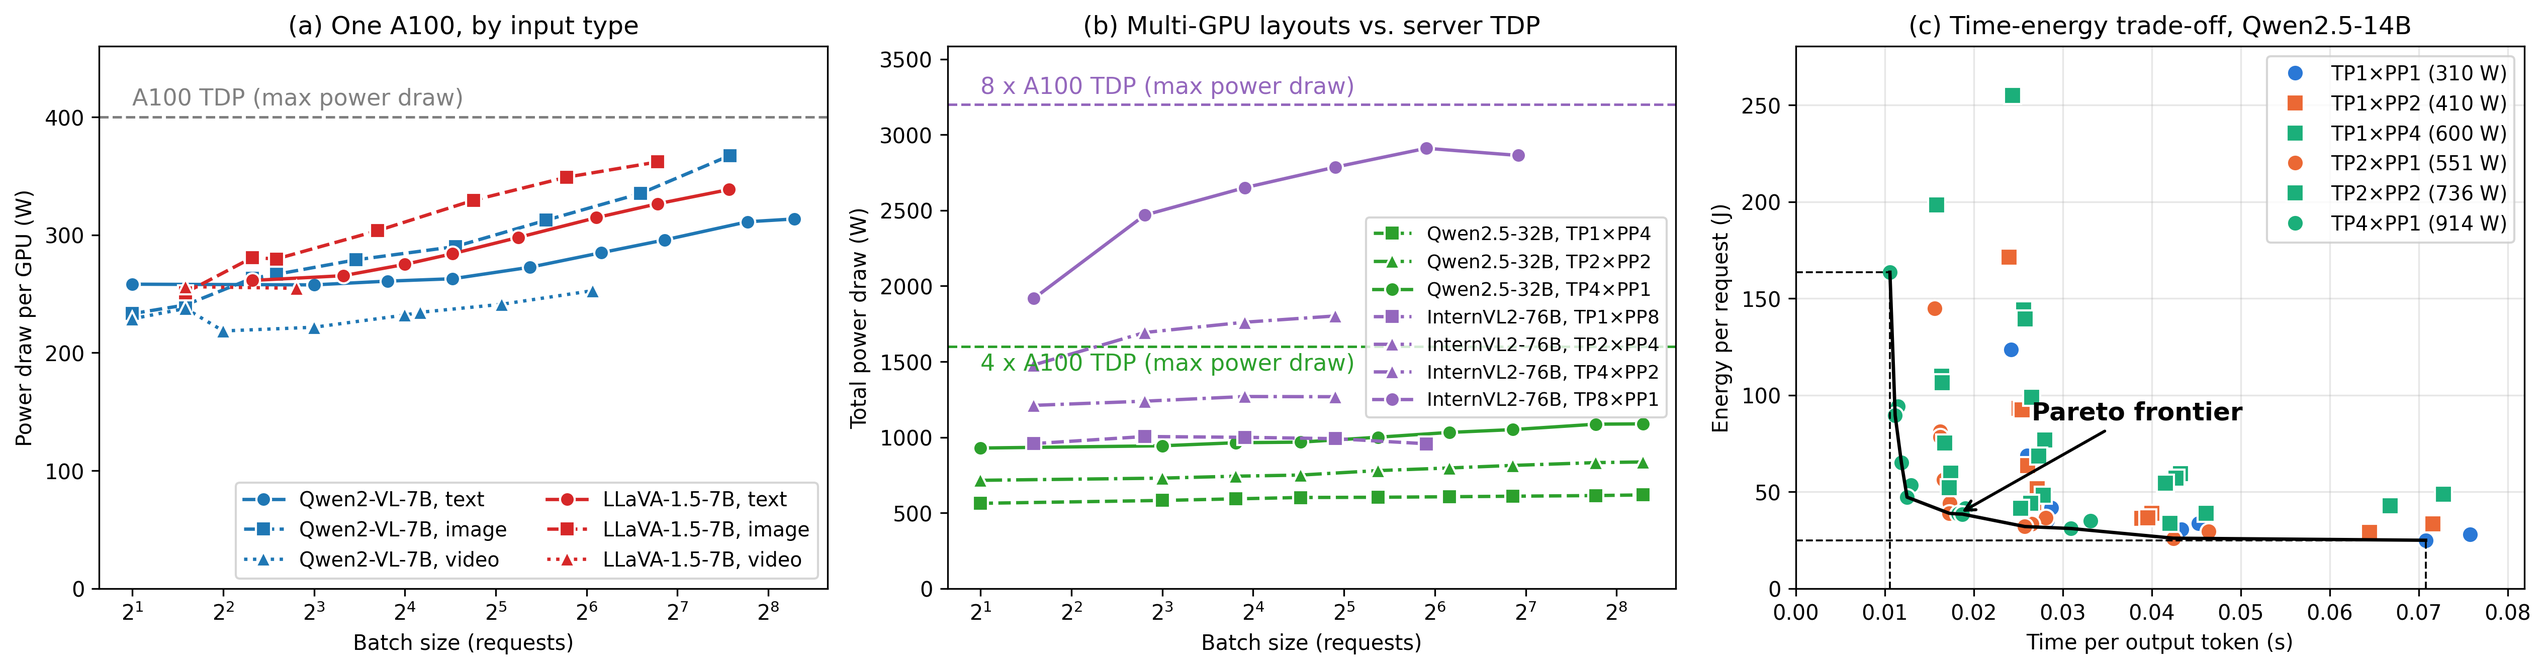
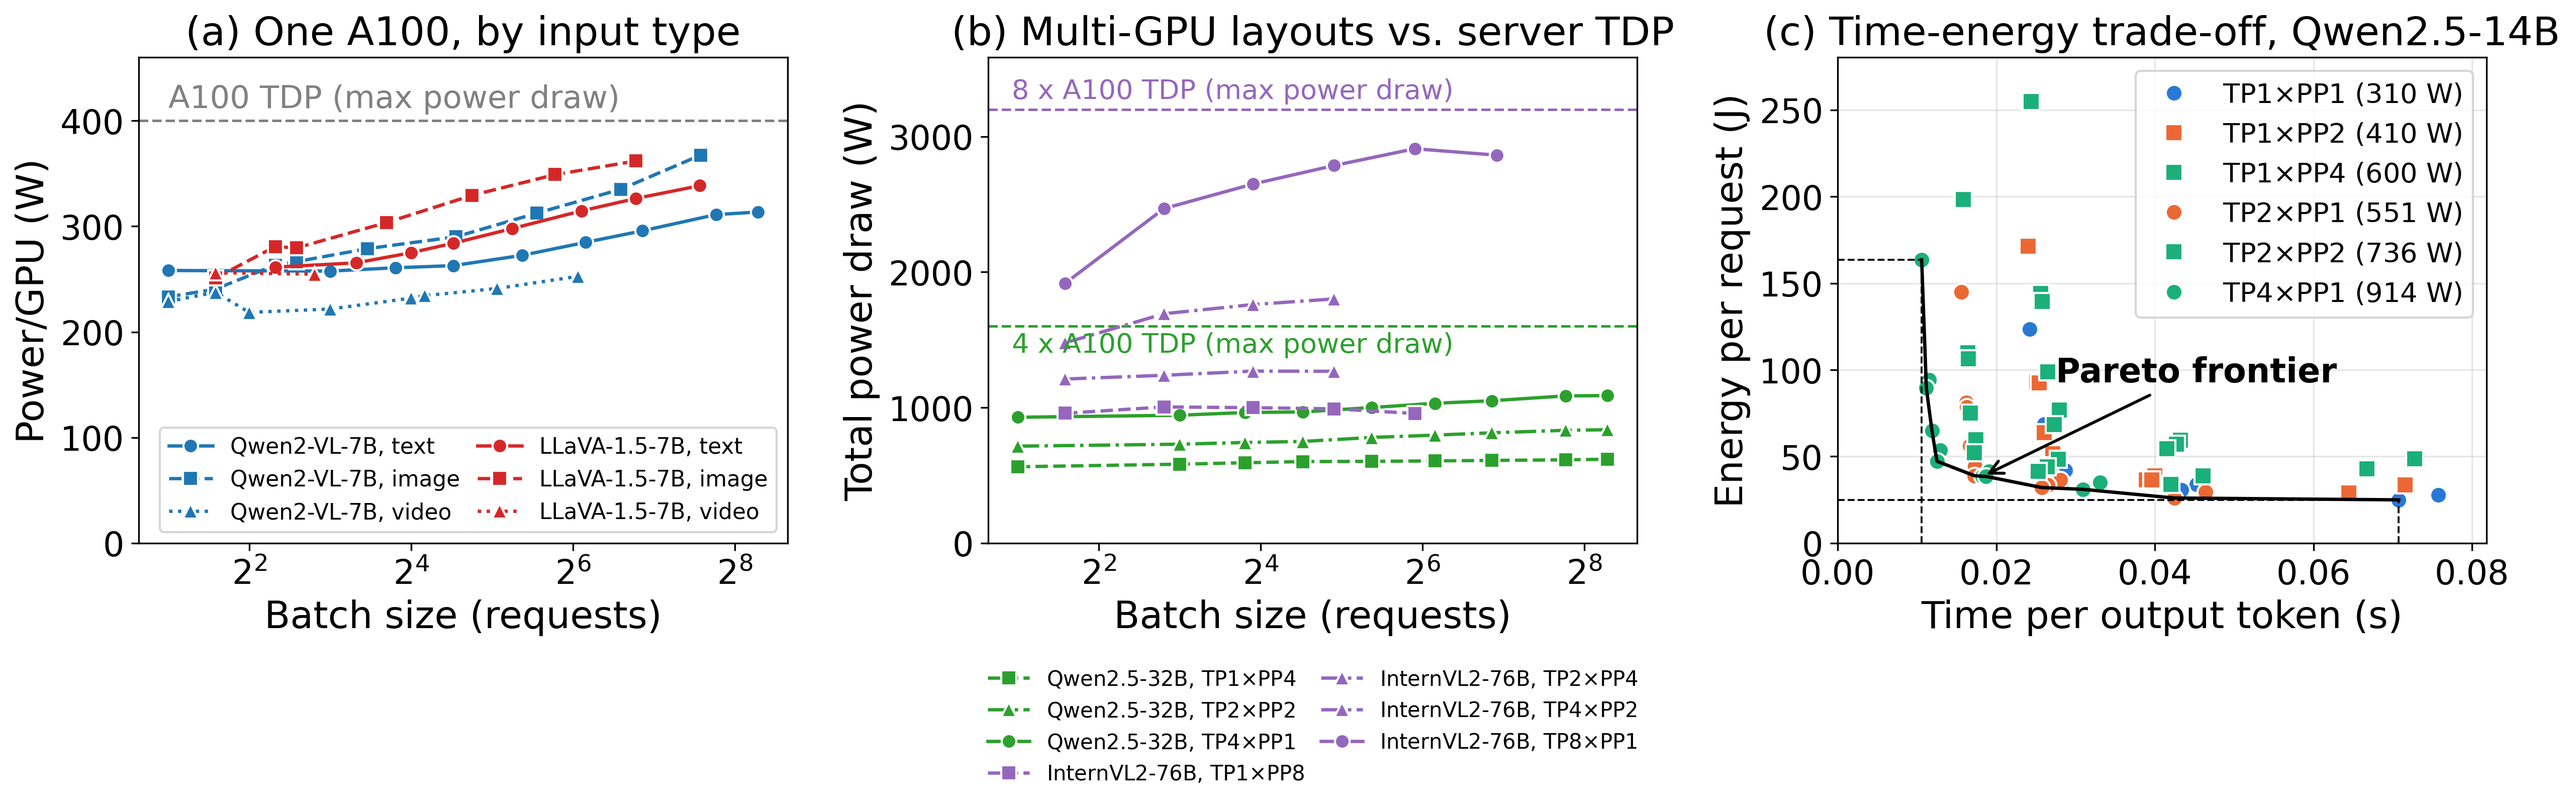
Ablation script; fixed figure labels
Claude-Session: https://claude.ai/code/session_01GNwmsi9rMoRu5eXQtDeSCb

diff --git a/nvidia/test/ablation.py b/nvidia/test/ablation.py
@@ -1,0 +1,237 @@
+#!/usr/bin/env python3
+"""Term-by-term ablation of the EnergyLens template, and a latency x power physics model.
+
+Every variant is fitted on the same 50 random rows of the training scenarios and scored on
+the held-out scenarios (MAPE, pairwise accuracy, Top-1, regret), over the 29 A100 datasets
+and three split seeds:
+  full                 Eq. (unified-tp-pp)
+  no overhead          delta_1 = delta_2 = 0
+  symmetric exponent   one parallelism exponent per phase (gamma_1 = gamma_2)
+  linear batch         uncapped batch size, beta = 1, epsilon = 0 (energy per request ~ 1/b)
+  latency x power      log-linear latency model x linear power model, divided by the batch
+  SR raw formula       SR's best formula of the dataset (seed 0), all constants re-fitted
+                       (only the five datasets SR was run on)
+
+    python test/ablation.py [--seeds 42 7 123] [--workers 16]
+"""
+import argparse
+import os
+import sys
+from concurrent.futures import ProcessPoolExecutor
+
+os.environ.setdefault("OMP_NUM_THREADS", "1")
+import numpy as np  # noqa: E402
+import pandas as pd  # noqa: E402
+from scipy.optimize import minimize  # noqa: E402
+
+HERE = os.path.dirname(os.path.abspath(__file__))
+NVIDIA = os.path.dirname(HERE)
+sys.path.insert(0, HERE)
+sys.path.insert(0, os.path.join(NVIDIA, "..", "adaptive_sampling"))
+from simulator import PATHS, load_csv, ranking_metrics  # noqa: E402
+from compare_cross_model import holdout_scenarios, effective_batch, fit_unified, unified_predict  # noqa: E402
+
+SR = {  # dataset label in PATHS -> SR result folder
+    "Mistral-7B": "run_text_only_Mistral-7B-Instruct-v0.3",
+    "Nemotron-Nano-9B": "run_text_only_NVIDIA-Nemotron-Nano-9B-v2",
+    "Qwen2-VL-7B": "run_text_only_Qwen2-VL-7B-Instruct",
+    "Qwen2-VL-7B (image)": "run_text_image_Qwen2-VL-7B-Instruct",
+    "LLaVA-1.5-7B": "run_text_only_llava-1.5-7b-hf",
+}
+BOUNDS = [(1e-8, 1e6), (0.01, 3), (-2, 3), (-2, 3), (0, 100),
+          (1e-8, 1e6), (0.01, 3), (-2, 3), (-2, 3), (0, 100),
+          (-1e6, 1e6), (-1e6, 1e6)]
+
+
+def template(p, d, bs):
+    a_p, b_p, g1p, g2p, e_p, a_d, b_d, g1d, g2d, e_d, d1, d2 = p
+    tok, tp, pp = d["decode_tokens"].values.astype(float), d["tp_degree"].values.astype(float), d["pp_degree"].values.astype(float)
+    inp = d["total_input"].values.astype(float)
+    return (a_p * inp / (bs ** b_p + e_p) * tp ** g1p * pp ** g2p
+            + a_d * tok / (bs ** b_d + e_d) * tp ** g1d * pp ** g2d + d1 * tp + d2 * pp)
+
+
+def fit_variant(train, expand, n_free, x0_full, restarts=10, linear_batch=False):
+    """Fit a constrained template: expand(free) -> 12 parameters."""
+    y = train["measured_energy"].values.astype(float)
+    bs = train["batch_size"].values.astype(float) if linear_batch else effective_batch(train)
+
+    def loss(q):
+        return np.mean(np.abs(template(expand(q), train, bs) - y) / y)
+    best, bq = np.inf, None
+    for i in range(restarts):
+        rng = np.random.RandomState(i * 42)
+        x0 = x0_full(rng)
+        r = minimize(loss, x0, method="L-BFGS-B", bounds=free_bounds(n_free, expand.__name__),
+                     options={"maxiter": 5000})
+        if r.fun < best:
+            best, bq = r.fun, r.x
+    p = expand(bq)
+    return lambda d: template(p, d, d["batch_size"].values.astype(float) if linear_batch else effective_batch(d))
+
+
+def free_bounds(n, name):
+    if name == "sym":      # a_p b_p g_p e_p a_d b_d g_d e_d d1 d2
+        return [BOUNDS[i] for i in (0, 1, 2, 4, 5, 6, 7, 9, 10, 11)]
+    if name == "nodelta":  # first ten
+        return BOUNDS[:10]
+    if name == "linb":     # a_p g1p g2p a_d g1d g2d d1 d2
+        return [BOUNDS[i] for i in (0, 2, 3, 5, 7, 8, 10, 11)]
+    raise ValueError(name)
+
+
+def starts(train):
+    y = train["measured_energy"].values.astype(float)
+    med = np.median(y)
+    sp = med * 0.3 / max(np.median(train["total_input"].values), 1)
+    sd = med * 0.7 / max(np.median(train["decode_tokens"].values), 1)
+
+    def full(rng):
+        return [sp * rng.uniform(.1, 3), rng.uniform(.3, 1.5), rng.uniform(-1.2, -.2), rng.uniform(-1, 0), rng.uniform(.01, 2),
+                sd * rng.uniform(.1, 3), rng.uniform(.3, 1.5), rng.uniform(-1.2, -.2), rng.uniform(-1, 0), rng.uniform(.01, 2),
+                rng.uniform(-med * .05, med * .1), rng.uniform(-med * .05, med * .1)]
+    return full
+
+
+def variants(train):
+    full = starts(train)
+    out = {}
+    th = fit_unified(train, restarts=10)
+    out["full"] = lambda d: unified_predict(th, d)
+
+    def nodelta(q):
+        return list(q) + [0.0, 0.0]
+    out["no overhead"] = fit_variant(train, nodelta, 10, lambda r: full(r)[:10])
+
+    def sym(q):
+        a_p, b_p, g_p, e_p, a_d, b_d, g_d, e_d, d1, d2 = q
+        return [a_p, b_p, g_p, g_p, e_p, a_d, b_d, g_d, g_d, e_d, d1, d2]
+    out["symmetric exponent"] = fit_variant(train, sym, 10, lambda r: [full(r)[i] for i in (0, 1, 2, 4, 5, 6, 7, 9, 10, 11)])
+
+    def linb(q):
+        a_p, g1p, g2p, a_d, g1d, g2d, d1, d2 = q
+        return [a_p, 1.0, g1p, g2p, 0.0, a_d, 1.0, g1d, g2d, 0.0, d1, d2]
+    out["linear batch"] = fit_variant(train, linb, 8, lambda r: [full(r)[i] for i in (0, 2, 3, 5, 7, 8, 10, 11)],
+                                      linear_batch=True)
+    out["latency x power"] = physics(train)
+    return out
+
+
+def physics(train):
+    """log L = linear in (log tp, log pp, log b, log T_out, log T_in); P = linear in (n, tp, log b)."""
+    def X(d):
+        tp, pp = d["tp_degree"].values.astype(float), d["pp_degree"].values.astype(float)
+        b = d["batch_size"].values.astype(float)
+        return np.column_stack([np.ones(len(d)), np.log(tp), np.log(pp), np.log(b),
+                                np.log(d["decode_tokens"].values.astype(float) + 1),
+                                np.log(d["total_input"].values.astype(float) + 1)]), tp, pp, b
+    Xl, tp, pp, b = X(train)
+    wl = np.linalg.lstsq(Xl, np.log(train["measured_latency"].values.astype(float)), rcond=None)[0]
+    Xp = np.column_stack([np.ones(len(train)), tp * pp, tp, np.log(b)])
+    wp = np.linalg.lstsq(Xp, train["gpu_power_w"].values.astype(float), rcond=None)[0]
+
+    def pred(d):
+        Xd, t, p, bb = X(d)
+        lat = np.exp(Xd @ wl)
+        pw = np.column_stack([np.ones(len(d)), t * p, t, np.log(bb)]) @ wp
+        return np.maximum(pw, 1.0) * lat / bb       # energy per request = power x latency / batch
+    return pred
+
+
+def sr_raw(name, train):
+    import sympy as sp
+    path = os.path.join(NVIDIA, "sr_results", SR[name])
+    eq = pd.read_csv([os.path.join(path, f) for f in os.listdir(path) if f.startswith("seed_equations")][0])
+    col = "best_sympy" if "best_sympy" in eq else "sympy"
+    expr = sp.sympify(eq.sort_values("seed").iloc[0][col])
+    nums = sorted({a for a in expr.atoms(sp.Number) if a not in (0, 1, -1)}, key=str)
+    cs = sp.symbols(f"c0:{len(nums)}")
+    expr_c = expr.xreplace(dict(zip(nums, cs)))
+    syms = sorted(expr_c.free_symbols - set(cs), key=str)
+    f = sp.lambdify(list(cs) + syms, expr_c, "numpy")
+
+    def env(d):
+        tp, pp = d["tp_degree"].values.astype(float), d["pp_degree"].values.astype(float)
+        base = {"max_tokens": d["max_tokens"].values.astype(float), "batch_size": d["batch_size"].values.astype(float),
+                "tensor_parallel_size": tp, "pipeline_parallel_size": pp, "parallelism": tp * pp,
+                "input_length": d["input_length"].values.astype(float) if "input_length" in d else d["total_input"].values / d["batch_size"].values}
+        base["total_input_tokens"] = base["input_length"] * base["batch_size"]
+        base["tokens_per_gpu"] = base["total_input_tokens"] / (tp * pp)
+        base["workload_per_gpu"] = base["tokens_per_gpu"]
+        return [base[str(s)] for s in syms]
+    y = train["measured_energy"].values.astype(float)
+    E = env(train)
+    c0 = np.array([float(n) for n in nums])
+
+    def model(q, e):
+        return q[0] * np.asarray(f(*q[2:], *e), float) + q[1]
+
+    def loss(q):
+        r = model(q, E)
+        return np.mean(np.abs(r - y) / y) if np.all(np.isfinite(r)) else 1e9
+    best, bq = np.inf, None
+    for i in range(10):
+        rng = np.random.RandomState(i)
+        x0 = np.concatenate([[np.std(y) * rng.uniform(.5, 2), np.mean(y)], c0 * rng.uniform(.5, 1.5, len(c0))])
+        r = minimize(loss, x0, method="Nelder-Mead", options={"maxiter": 20000, "xatol": 1e-8, "fatol": 1e-10})
+        if r.fun < best:
+            best, bq = r.fun, r.x
+    return lambda d: model(bq, env(d)), str(expr)
+
+
+def score(pred, test):
+    y = test["measured_energy"].values.astype(float)
+    p = np.asarray(pred, float)
+    return {"mape": 100 * np.mean(np.abs(p - y) / y), **ranking_metrics(test, p)}
+
+
+def run_one(task):
+    name, seed = task
+    rows = []
+    try:
+        d = load_csv(PATHS[name])
+        pool, test, _, _ = holdout_scenarios(d, 0.3, seed)
+        train = pool.sample(min(50, len(pool)), random_state=seed)
+        for v, f in variants(train).items():
+            rows.append({"dataset": name, "seed": seed, "variant": v, **score(f(test), test)})
+        if name in SR:
+            try:
+                f, expr = sr_raw(name, train)
+                rows.append({"dataset": name, "seed": seed, "variant": "SR raw formula", **score(f(test), test), "expr": expr})
+            except Exception as e:                       # SR output in another format: keep the other variants
+                print(f"[no SR] {name} {seed}: {type(e).__name__}: {e}", flush=True)
+    except Exception as e:
+        print(f"[skip] {name} {seed}: {type(e).__name__}: {e}", flush=True)
+    return rows
+
+
+def main():
+    ap = argparse.ArgumentParser(description=__doc__.split("\n\n")[0])
+    ap.add_argument("--seeds", type=int, nargs="+", default=[42, 7, 123])
+    ap.add_argument("--workers", type=int, default=int(os.environ.get("NCPUS", 16)))
+    ap.add_argument("--out", default=os.path.join(NVIDIA, "results_figures", "ablation"))
+    a = ap.parse_args()
+    os.makedirs(a.out, exist_ok=True)
+    tasks = [(n, s) for n in PATHS for s in a.seeds]
+    rows = []
+    with ProcessPoolExecutor(max_workers=a.workers) as ex:
+        for r in ex.map(run_one, tasks):
+            rows += r
+            if r:
+                print(f"done {r[0]['dataset']} seed {r[0]['seed']}", flush=True)
+    r = pd.DataFrame(rows)
+    r.to_csv(os.path.join(a.out, "ablation_rows.csv"), index=False)
+    cols = ["mape", "pairwise", "top1", "regret"]
+    per = r.groupby(["variant", "dataset"])[cols].mean()
+    s = per.groupby("variant").agg(["mean"]).droplevel(1, axis=1)
+    s["datasets"] = per.groupby("variant").size()
+    s.round(2).to_csv(os.path.join(a.out, "ablation_summary.csv"))
+    pd.set_option("display.width", 200)
+    print(s.round(2).to_string())
+    sr = r[r.dataset.isin(SR)]
+    print("\non the SR datasets only:")
+    print(sr.groupby("variant")[cols].mean().round(2).to_string())
+
+
+if __name__ == "__main__":
+    main()

diff --git a/nvidia/viz/characterization.py b/nvidia/viz/characterization.py
@@ -3,6 +3,17 @@
 
     python viz/characterization.py --out ../../PDP-paper/images/characterization   # from nvidia/
     python viz/characterization.py --only tp_pp batch                               # a subset
+
+  tp_pp_vs_latency_avg / tp_pp_vs_energy_avg   every text-only model vs (TP, PP)
+  energy_latency_optimum                        extra energy of the latency-optimal choice, per dataset
+  batch_size_vs_energy                          (a) all models vs batch size, (b) one model per (TP, PP)
+  modality_energy                               text vs image vs video, per (TP, PP)
+  fits (CSV only)                               MaverIQ's latency form and EnergyLens' TP/PP terms
+                                                fitted to the same data (numbers for Sec. V.B.2)
+
+Each figure also writes a CSV of the plotted values next to it, which is where
+the numbers quoted in the text come from. Colour = model, marker and line style
+= architecture family (viz/style.py); datasets come from viz/datasets.py.
 """
 import argparse
 import os
@@ -46,8 +57,8 @@ def tp_pp(out):
     ds = _by_family(select("text", models=None))
     ds = [d for d in ds if d.model not in ("Qwen2-VL-7B", "LLaVA-1.5-7B")]   # multimodal: see modality_energy
     rows = []
-    for col, ylabel, name in (("measured_latency", "Average Batch Latency (s)", "tp_pp_vs_latency_avg"),
-                              ("measured_energy", "Average Energy per Request (J)", "tp_pp_vs_energy_avg")):
+    for col, ylabel, name in (("measured_latency", "Batch latency (s)", "tp_pp_vs_latency_avg"),
+                              ("measured_energy", "Energy per request (J)", "tp_pp_vs_energy_avg")):
         fig, ax = plt.subplots(figsize=(11, 7.5))
         x = _tp_pp_axis(ax)
         for d in ds:
@@ -142,9 +153,10 @@ def batch(out, detail_model="Qwen2-VL-7B"):
     a.set_xscale("log")
     a.set_yscale("log")
     a.axvline(64, color="#555555", linestyle=":", linewidth=1)
-    a.text(66, a.get_ylim()[0] * 1.3, "concurrency\nlimit S=64", fontsize=LEGEND_SIZE - 1, color="#555555")
-    style(a, "Batch Size (requests)", "Average Energy per Request (J)")
-    a.legend(fontsize=LEGEND_SIZE - 2, framealpha=0.9, ncol=2, loc="upper right")
+    a.text(70, a.get_ylim()[1] / 1.6, "concurrency\nlimit S=64", fontsize=LEGEND_SIZE - 1, color="#555555", va="top")
+    style(a, "Batch Size (requests)", "Energy per request (J)")
+    a.legend(fontsize=LEGEND_SIZE - 3, framealpha=0.9, ncol=3, loc="upper center", bbox_to_anchor=(0.5, -0.2),
+             columnspacing=0.8, handlelength=2.2)
     a.set_title("(a) All models, fewest-GPU configuration", fontsize=LABEL_SIZE)
 
     d = get(detail_model)
@@ -156,7 +168,7 @@ def batch(out, detail_model="Qwen2-VL-7B"):
                markeredgecolor="white", markeredgewidth=0.8)
     b.set_xscale("log")
     b.set_yscale("log")
-    style(b, "Batch Size (requests)", "Average Energy per Request (J)")
+    style(b, "Batch Size (requests)", "Energy per request (J)")
     b.legend(fontsize=LEGEND_SIZE - 1, framealpha=0.9, title="(TP, PP)", ncol=2)
     b.set_title(f"(b) {detail_model}, every configuration", fontsize=LABEL_SIZE)
     save(fig, out, "batch_size_vs_energy")
@@ -365,7 +377,7 @@ def power(out, pareto_model="Qwen2.5-14B"):
     the layout's power per GPU: the fastest layout draws the most power and is not the cheapest."""
     plt.rcParams.update({"axes.titlesize": 19, "axes.labelsize": 18, "xtick.labelsize": 16,
                          "ytick.labelsize": 16, "legend.fontsize": 14, "font.size": 15})
-    fig, (a, c, b) = plt.subplots(1, 3, figsize=(17, 5.2))
+    fig, (a, c, b) = plt.subplots(1, 3, figsize=(17, 6.0))
     bins = np.unique(np.round(np.geomspace(1, 512, 12)))
     colors = {"Qwen2-VL-7B": "#1f77b4", "LLaVA-1.5-7B": "#d62728"}
     rows = []
@@ -385,9 +397,9 @@ def power(out, pareto_model="Qwen2.5-14B"):
     a.set_xscale("log", base=2)
     a.set_ylim(0, A100_TDP * 1.15)
     a.set_xlabel("Batch size (requests)")
-    a.set_ylabel("Power per GPU (W)")
+    a.set_ylabel("Power/GPU (W)")
     a.set_title("(a) One A100, by input type")
-    a.legend(fontsize=13, ncol=2, loc="lower right")
+    a.legend(fontsize=10.5, ncol=2, loc="lower right", columnspacing=0.8, handlelength=2.0)
 
     # (b) ML.ENERGY Fig. 5a style: total power of the multi-GPU layouts against the server's TDP
     for model, mod, n, color in (("Qwen2.5-32B", "text", 4, "#2ca02c"), ("InternVL2-76B", "image", 8, "#9467bd")):
@@ -404,14 +416,15 @@ def power(out, pareto_model="Qwen2.5-14B"):
             rows += [{"panel": "b", "model": model, "tp": tp, "pp": pp, "batch": x, "power_w": y}
                      for x, y in zip(k.x, k.y)]
         c.axhline(n * A100_TDP, color=color, ls="--", lw=1.2)
-        c.text(2, n * A100_TDP + (40 if n == 8 else -40), f"{n} x A100 TDP (max power draw)", color=color, fontsize=15,
+        c.text(1.9, n * A100_TDP + (40 if n == 8 else -40), f"{n} x A100 TDP (max power draw)", color=color, fontsize=13,
                va="bottom" if n == 8 else "top")
     c.set_xscale("log", base=2)
     c.set_ylim(0, 8 * A100_TDP * 1.12)
     c.set_xlabel("Batch size (requests)")
     c.set_ylabel("Total power draw (W)")
     c.set_title("(b) Multi-GPU layouts vs. server TDP")
-    c.legend(fontsize=12.5, loc="center right")
+    c.legend(fontsize=10, ncol=2, loc="upper center", bbox_to_anchor=(0.5, -0.22), handlelength=2.0,
+             columnspacing=0.8, frameon=False)
 
     # (b) ML.ENERGY Fig. 7 style: every configuration (layout x batch size) of one prompt/output length
     df = get(pareto_model, "text").load()

diff --git a/nvidia/test/compare_cross_model.py b/nvidia/test/compare_cross_model.py
@@ -1,5 +1,16 @@
 #!/usr/bin/env python3
-"""Cross-model baseline comparison: EnergyLens vs ML baselines vs MaverIQ"""
+"""
+Cross-model baseline comparison: EnergyLens vs ML baselines vs MaverIQ
+========================================================================
+Reproduces the paper tables:
+  - Table 1: MAPE / R² / RMSE at n_train=50 and n_train=500 per dataset
+  - Table 2: MAPE / R² at n_train=50 across all hardware-model combinations
+
+Per seed, a fixed test set (--test-frac of the rows, default 0.2) is held out;
+every method is fit on the same n_train rows drawn from the remaining pool and
+scored only on the held-out rows. --test-frac 0 restores the old behaviour
+(score on the full dataset, training rows included).
+"""
 
 DATASETS = {
     # ── NVIDIA A100 (results/) ──
@@ -646,7 +657,7 @@ def plot_learning_summary(records, output_dir):
                 ls='-' if method in ('EnergyLens (Ours)', 'MaverIQ (Lat×P)') else '--')
         ax.fill_between(ns, q1.loc[ns], q3.loc[ns], color=color, alpha=0.12, lw=0)
     ax.set_xlabel('Training samples (n_train)', fontsize=LC_LABEL_SIZE)
-    ax.set_ylabel(f'MAPE (%), median of {n_ds} datasets', fontsize=LC_LABEL_SIZE)
+    ax.set_ylabel('MAPE (%)', fontsize=LC_LABEL_SIZE)
     ax.set_xscale('log')
     labelled = []
     for n in ns:

diff --git a/README.md b/README.md
@@ -102,6 +102,7 @@ Run the scripts from `nvidia/` unless noted otherwise. Outputs go to `nvidia/res
 | Quantized checkpoints | `python viz/quantized.py`; choosing checkpoint and layout under an MMLU limit: `python test/quant_selection.py` |
 | MaverIQ reimplementation check | `python test/maveriq_reproduction.py` |
 | Characterization figures (TP/PP, power, Pareto) | `python viz/characterization.py` |
+| Ablation of the template's terms | `python test/ablation.py` |
 | Evaluation figures | `python viz/evaluation.py` |
 | Profiling cost: random vs D-optimal designs, equal-cost comparison with MaverIQ | `cd adaptive_sampling && python run.py --all && python profiling_cost.py && python equal_cost.py` |
 | Symbolic-regression search for the template | `python sr_training.py --help` (needs PySR) |
